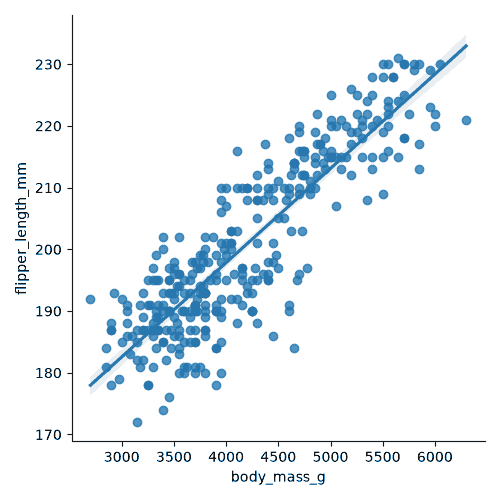
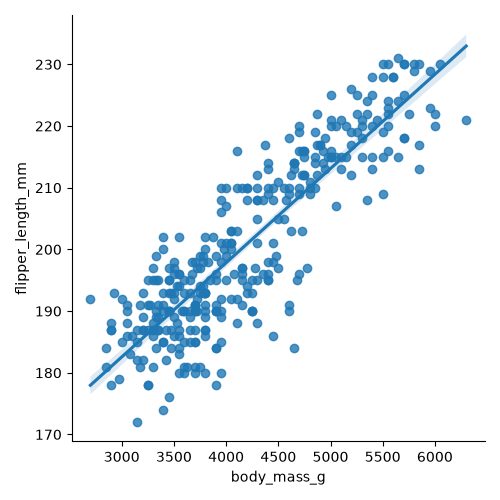
Simplify penguins generator

diff --git a/chapters/media/penguins.py b/chapters/media/penguins.py
@@ -1,19 +1,9 @@
 import seaborn as sns
 import matplotlib.pyplot as plt
 
-def plot_penguins_regression():
-    '''
-    Load penguins dataset and plot linear regression of flipper length and body mass.
+df = sns.load_dataset('penguins')
+sns.scatterplot(data=df, y='flipper_length_mm', x='body_mass_g')
+plt.savefig('penguins-scatter.png')
 
-    >>> plot_penguins_regression()
-    '''
-    df = sns.load_dataset('penguins')
-    sns.scatterplot(data=df, y='flipper_length_mm', x='body_mass_g')
-    plt.savefig('penguins-scatter.png')
-
-    sns.lmplot(data=df, y='flipper_length_mm', x='body_mass_g')
-    plt.savefig('penguins-regression.png')
-
-
-if __name__ == '__main__':
-    plot_penguins_regression()
+sns.lmplot(data=df, y='flipper_length_mm', x='body_mass_g')
+plt.savefig('penguins-regression.png')